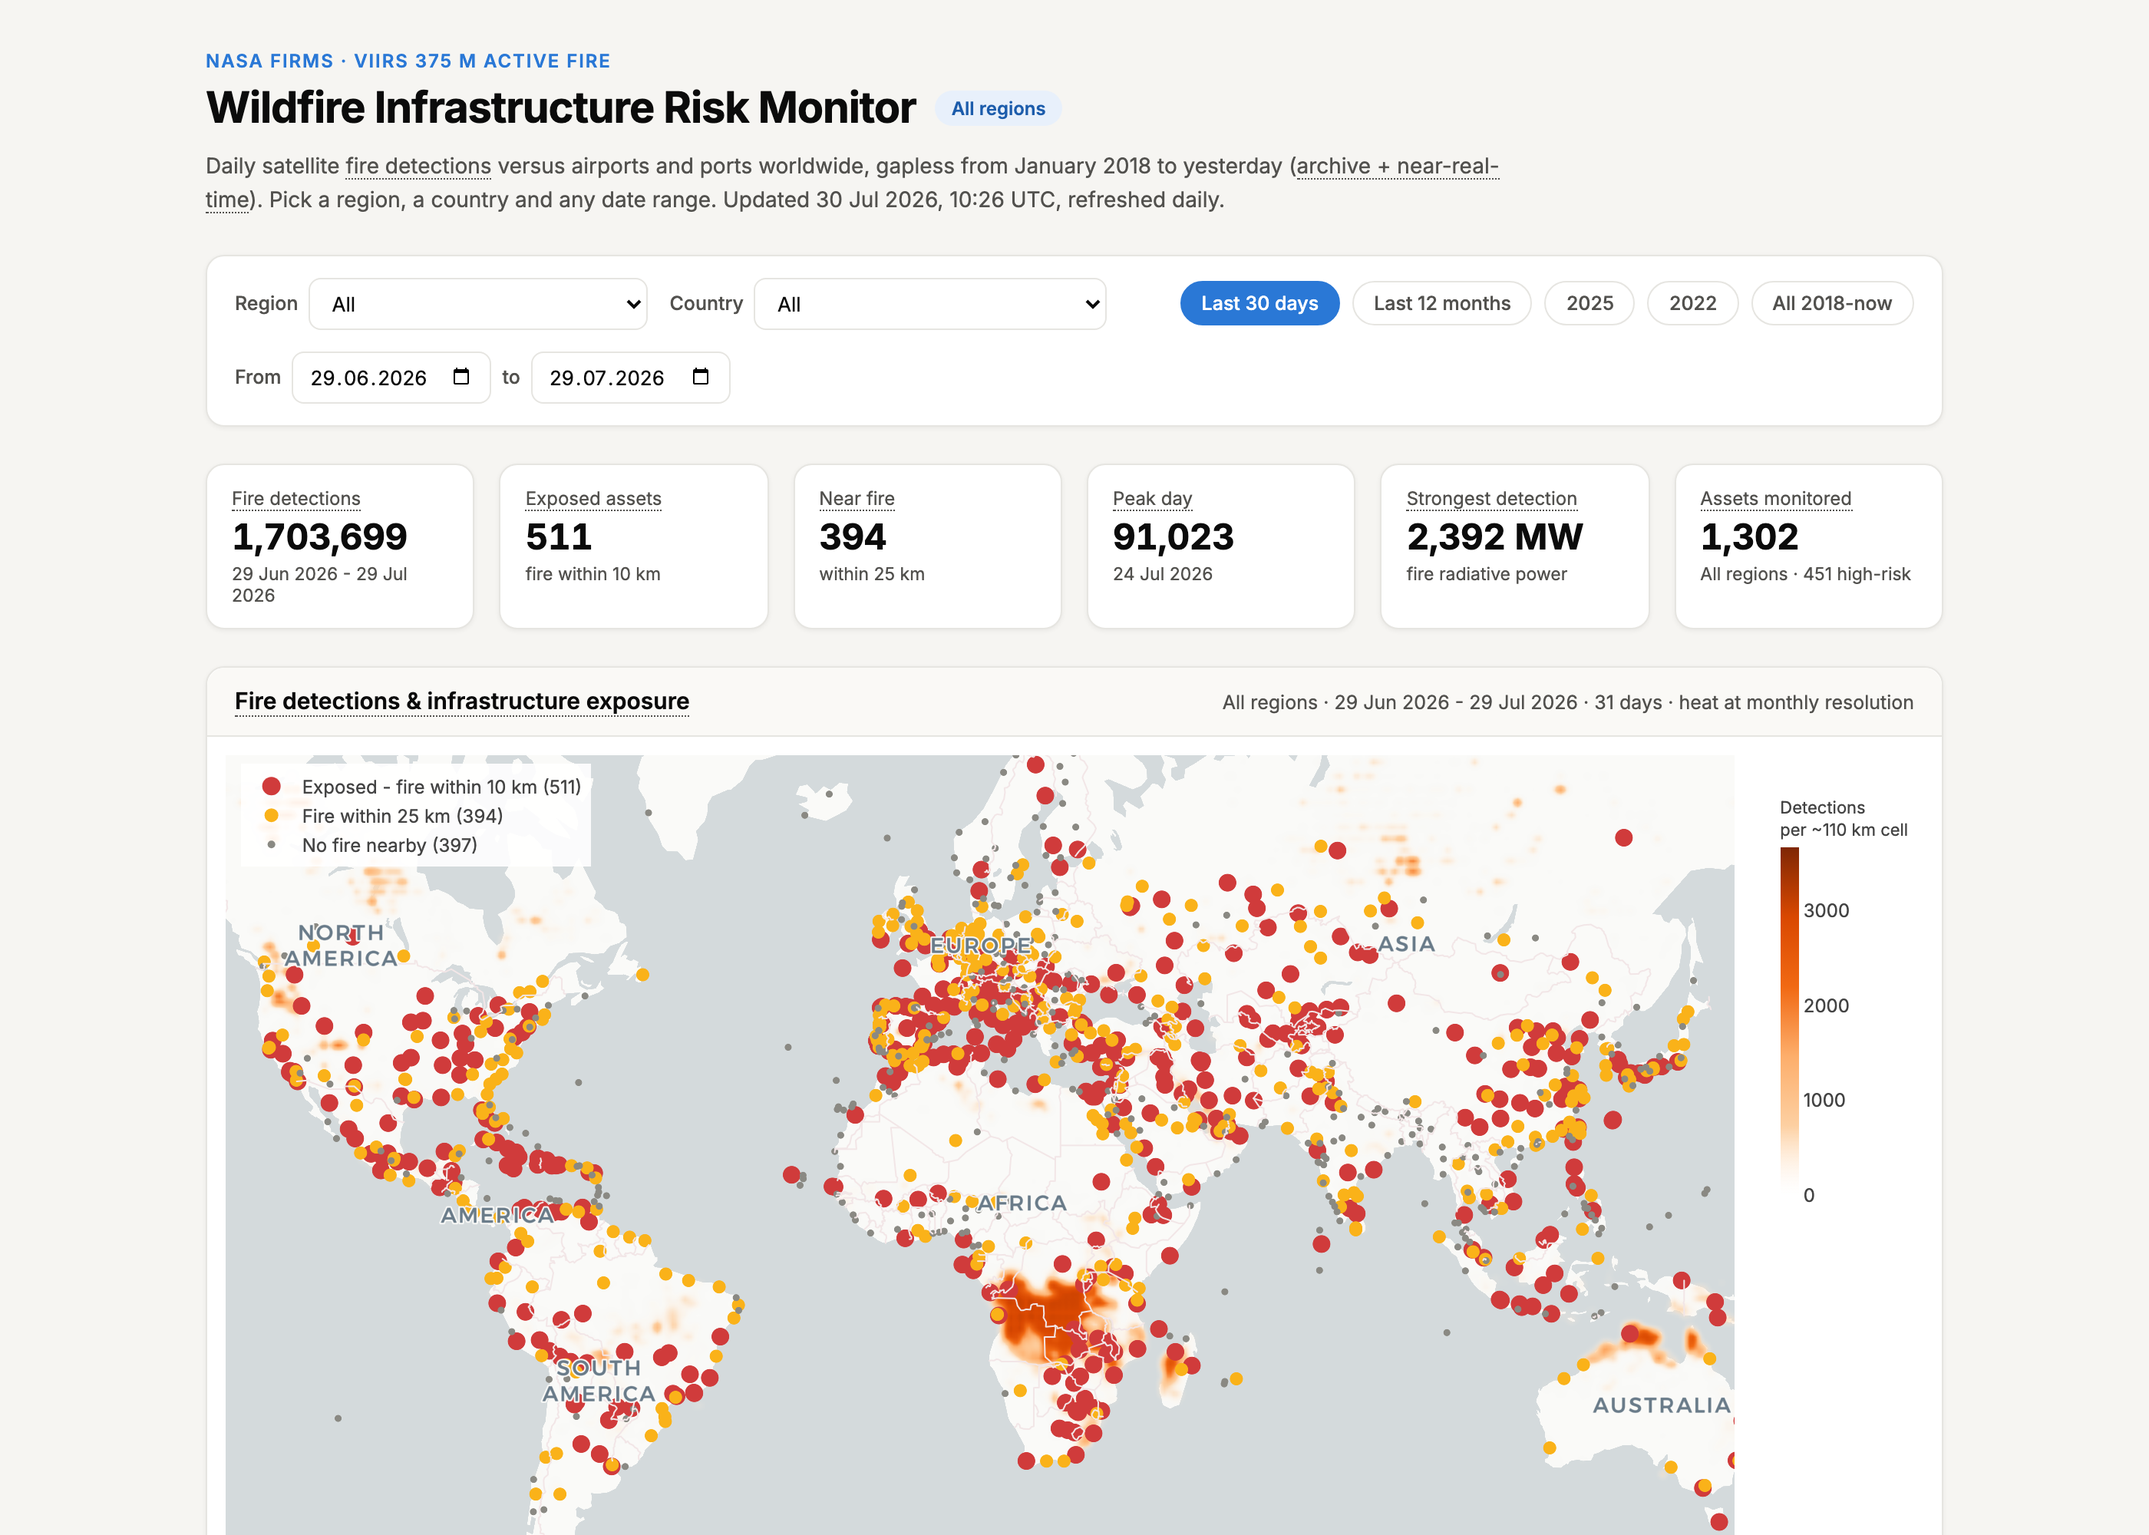
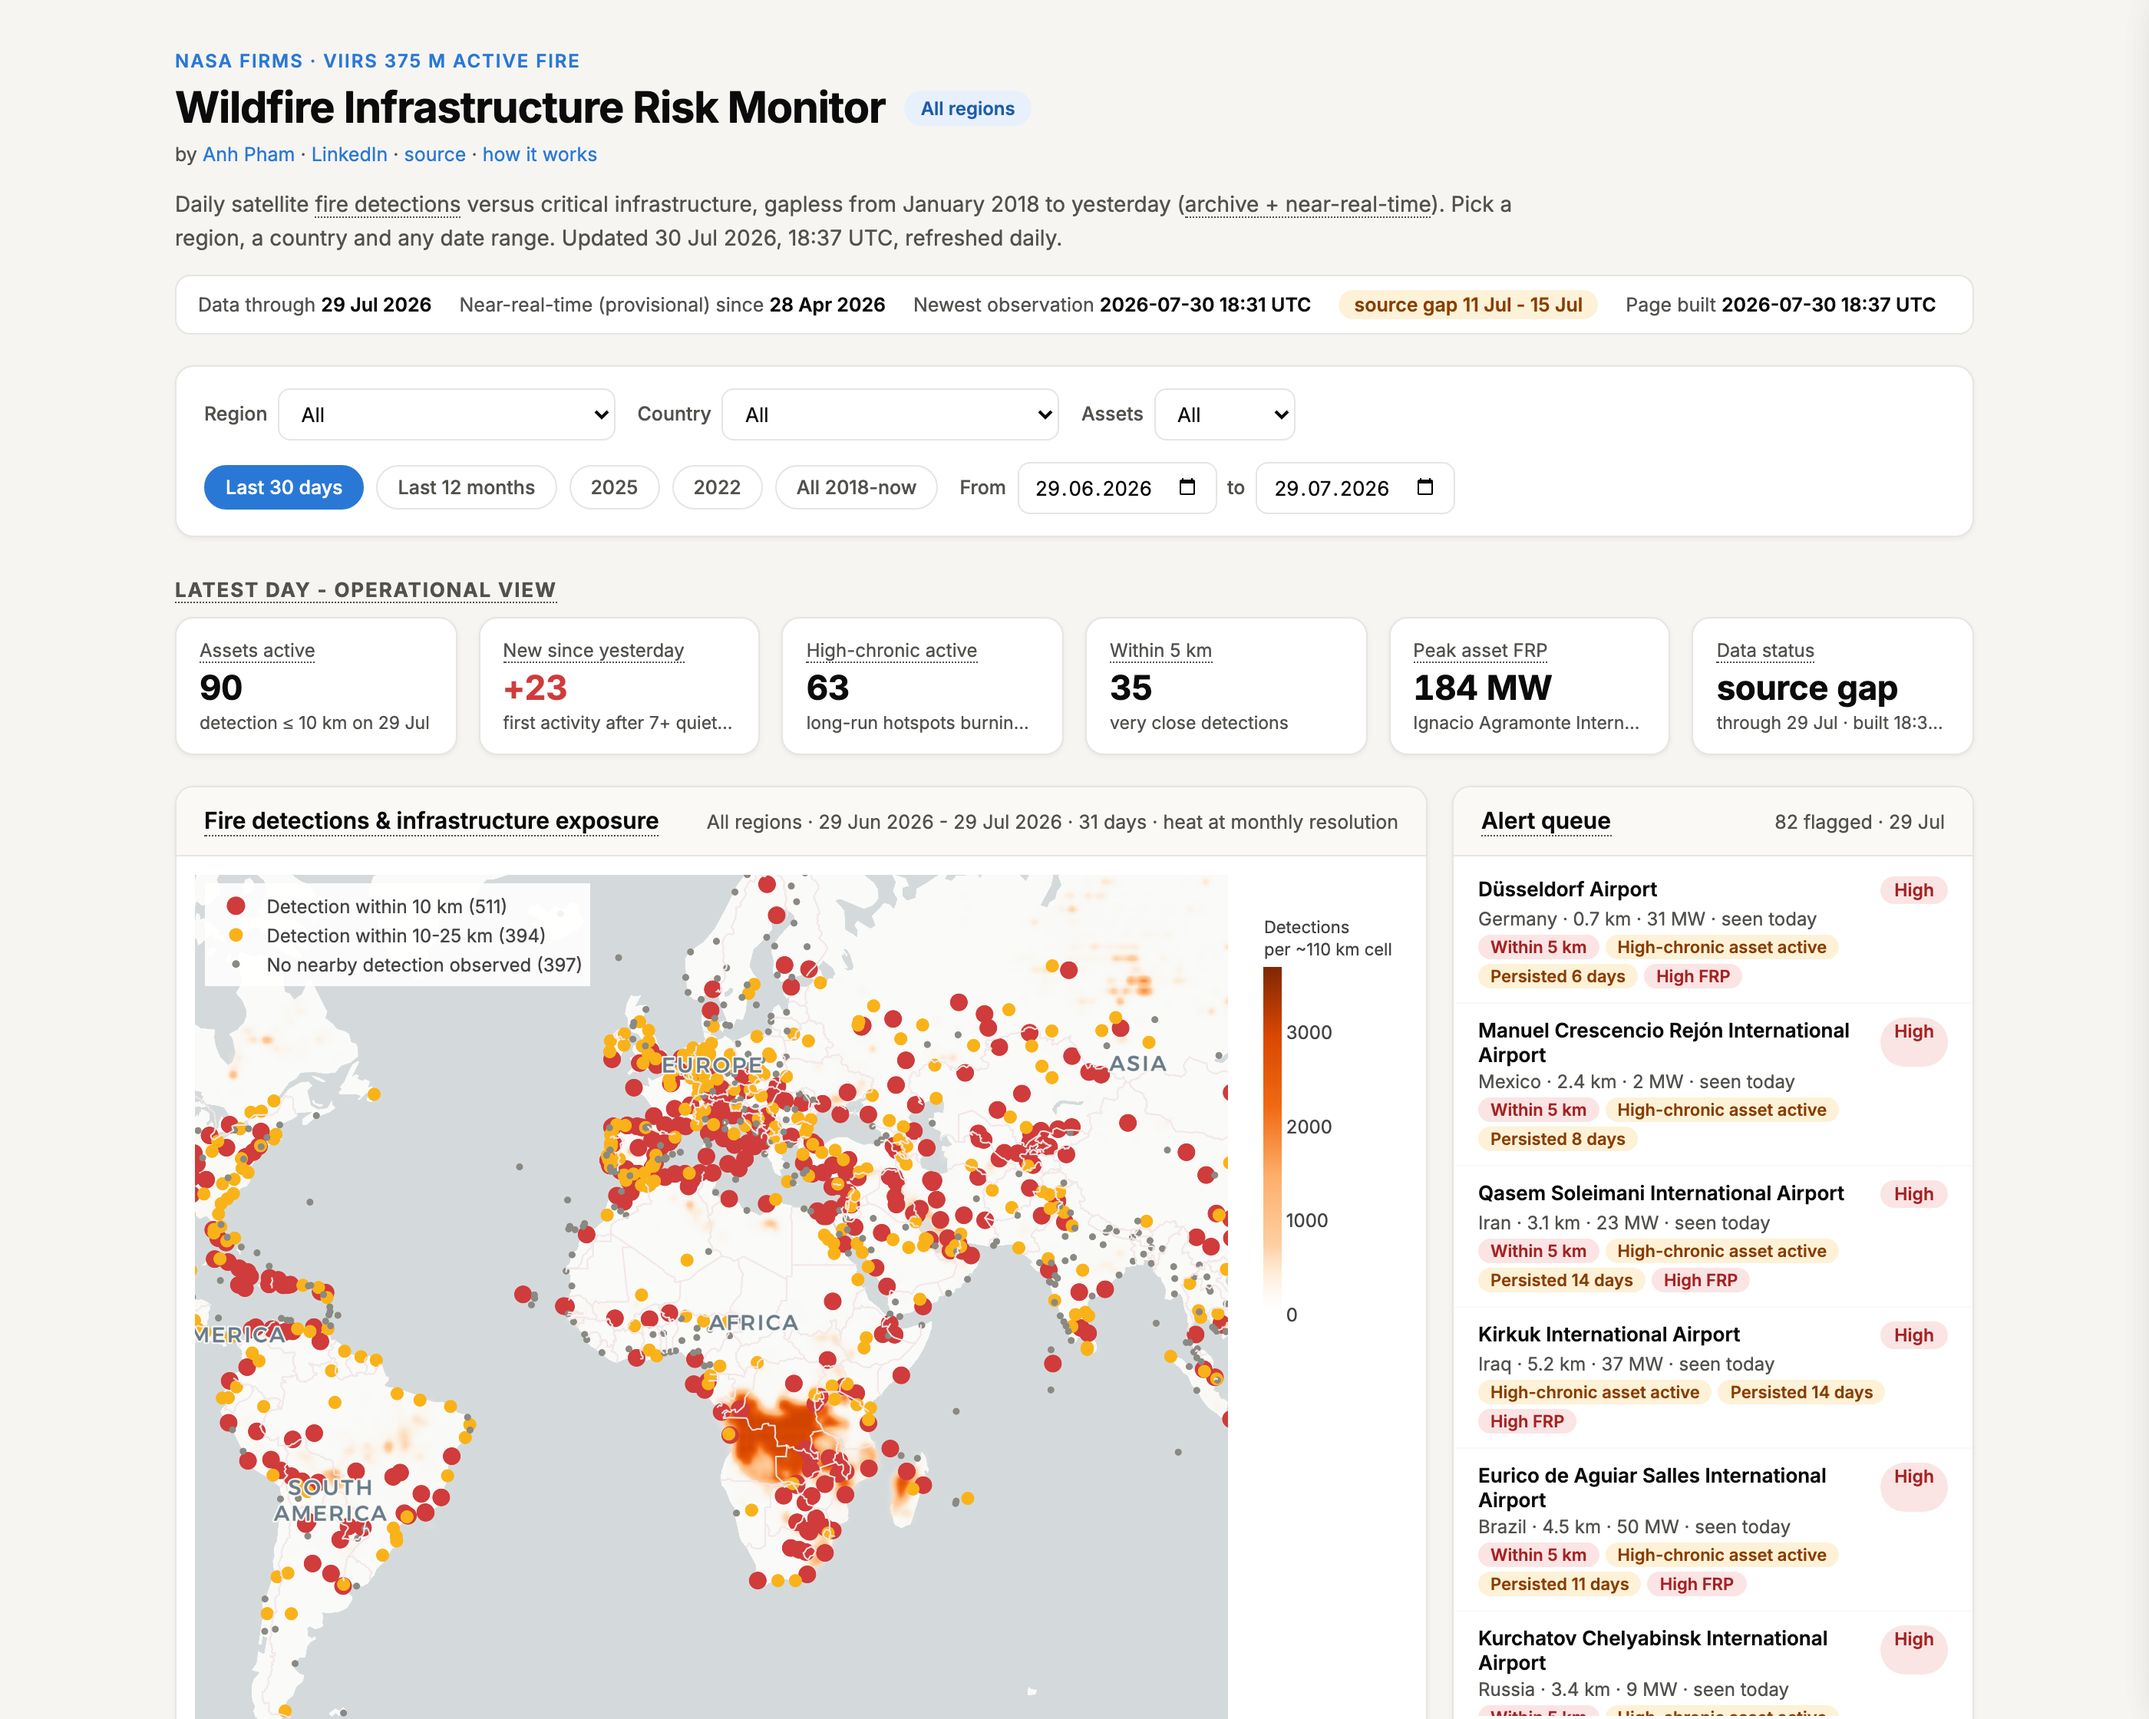
Refresh README preview to v3 dashboard, sync structure and docstrings

diff --git a/wildfire-infrastructure-risk/render_static.py b/wildfire-infrastructure-risk/render_static.py
@@ -10,11 +10,14 @@ One unified world dataset. Build-time work:
     ends up to today, so the record is gapless from 2018-01-01 to now
   - writes site/: index.html and data_world.json
 
-Viewer-side: cascading Region -> Country dropdowns (region = geographic
-division: Europe, South Asia, ... - country options follow the region),
-a from-to date range picker defaulting to the 30 days up to yesterday,
-hoverable definitions, a heatmap with colorbar, KPI tiles, trend chart
-and a sortable exposure table. Deploys to GitHub Pages as-is.
+Viewer-side (all client-side over the shipped daily exposure events):
+cascading Region -> Country -> Asset filters, a from-to date range picker
+defaulting to the 30 days up to yesterday, an operational KPI row and alert
+queue for the latest satellite day, rule-based current-severity tiers, an
+acute-vs-chronic quadrant, explainable chronic-exposure scores with peer
+percentiles, per-asset drilldown drawers (rings map, daily activity,
+seasonality), incident summaries, source-gap shading and a data-quality
+strip. Deploys to GitHub Pages as-is.
 
 Usage:
     python render_static.py

diff --git a/wildfire-infrastructure-risk/README.md b/wildfire-infrastructure-risk/README.md
@@ -136,7 +136,9 @@ wildfire-infrastructure-risk/
   risk_analysis.py            exposure metrics + risk scoring (regional studies)
   prepare_history.py          regional daily aggregates -> results/history_<region>.json
   prepare_world.py            world aggregates + baseline -> results/history_world.json
-  render_static.py            NRT stitch + dashboard build -> site/
+  render_static.py            NRT stitch, incident clustering, gap detection -> site/
+  template.html               the dashboard page: layout, styles and all client-side logic
+  assets/                     README media (dashboard preview screenshot)
   bin/                        retired code kept for reference (original local Dash app)
   results/                    committed aggregates and risk baselines (CI inputs)
   data/infrastructure/        committed asset lists
